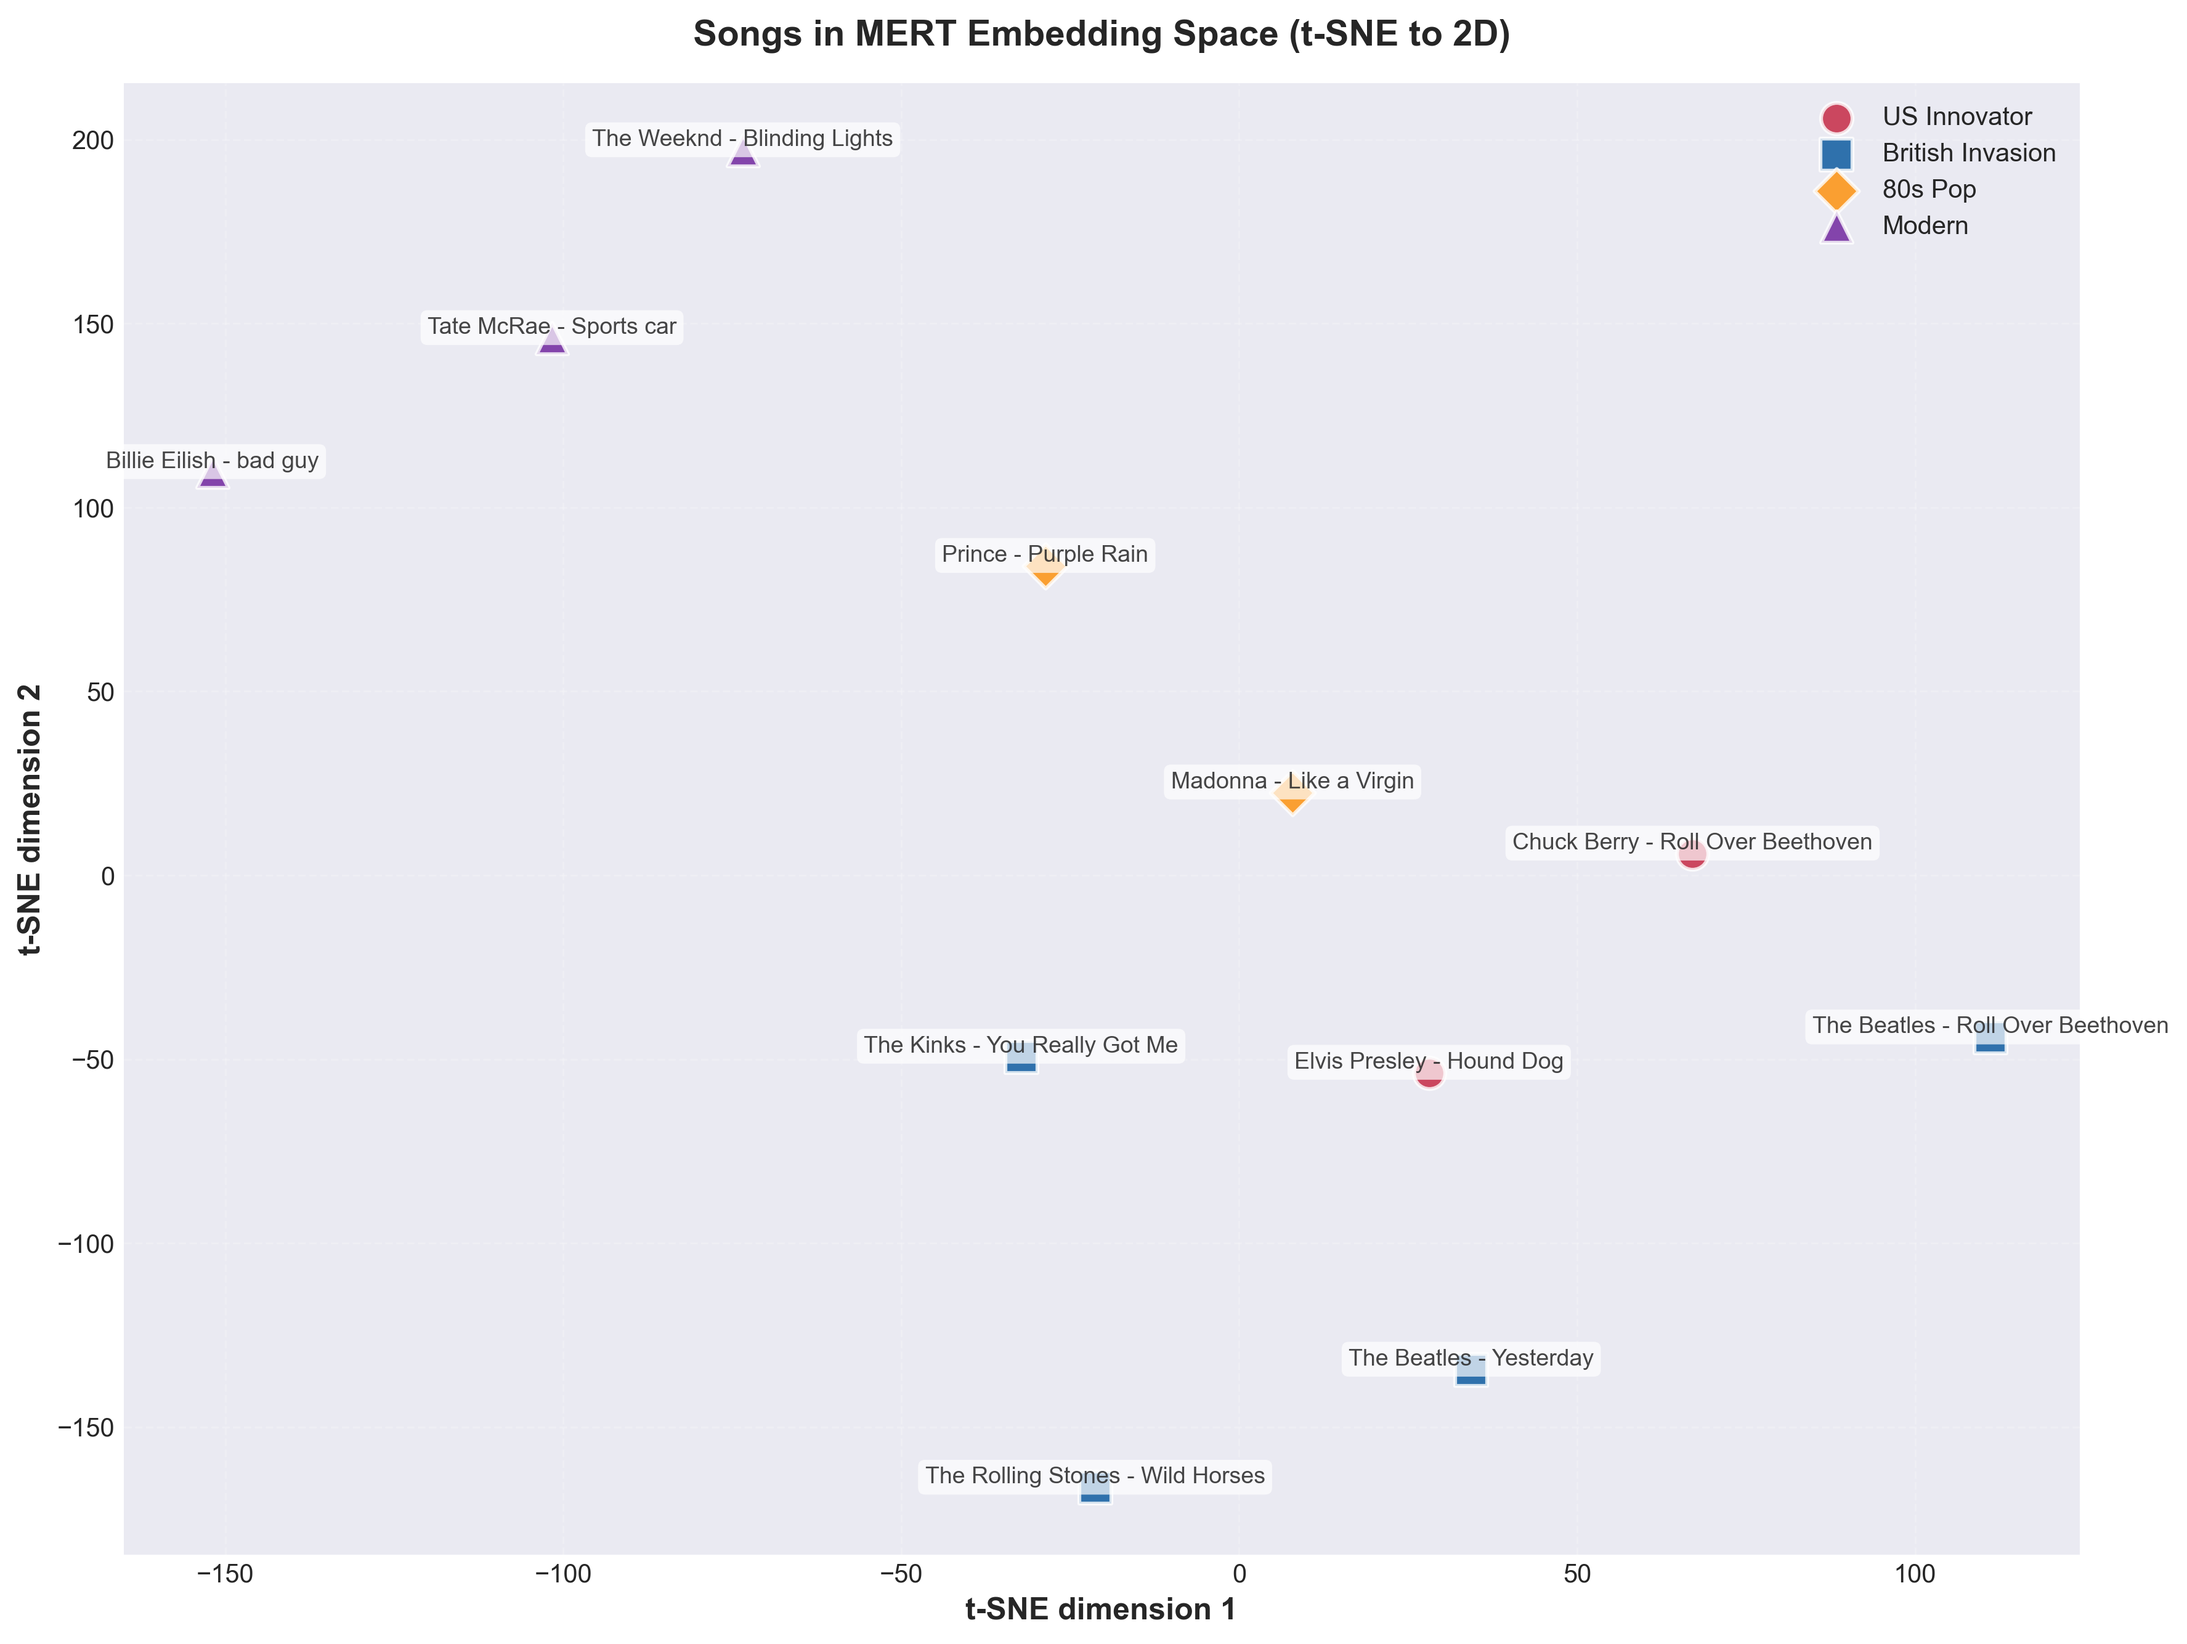
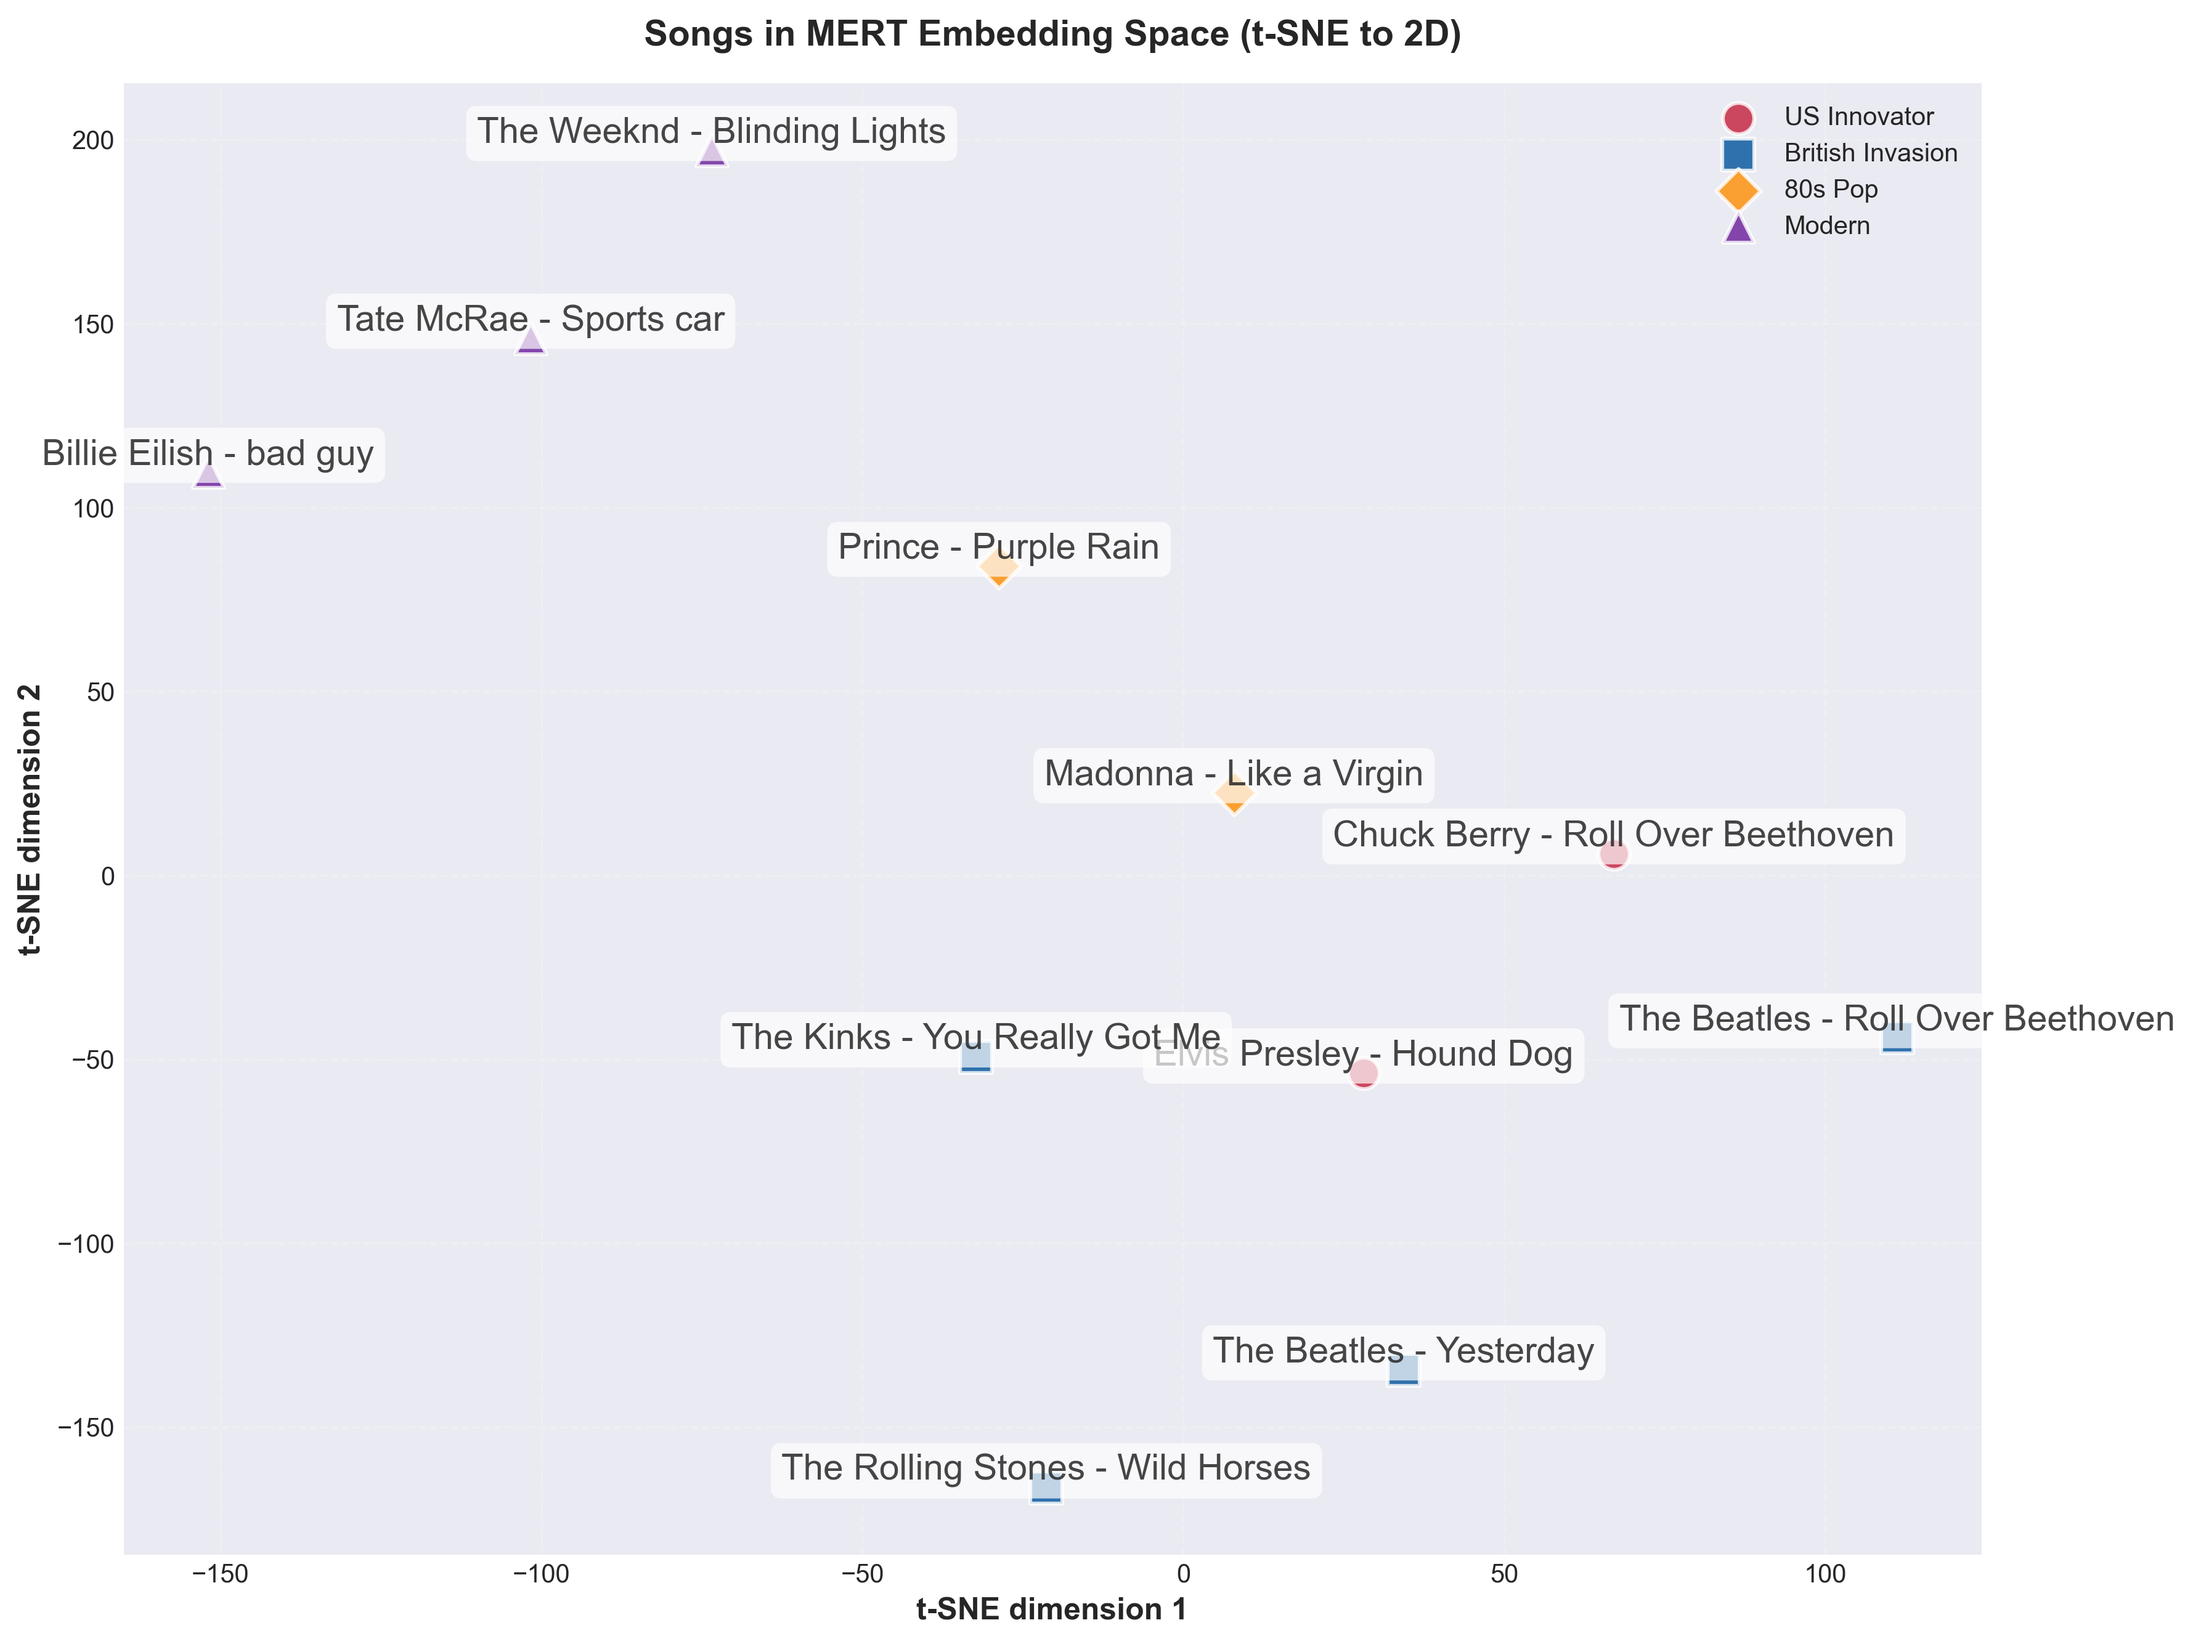
update plots + readme

diff --git a/audio/musical_diffusion_demo.py b/audio/musical_diffusion_demo.py
@@ -160,7 +160,7 @@ def plot_embeddings(df, x_col, y_col, title, xlabel, ylabel, filename):
     for _, row in df.iterrows():
         plt.annotate(f"{row['artist']} - {row['title']}", 
                     (row[x_col], row[y_col]),
-                    fontsize=9, alpha=0.85, 
+                    fontsize=14, alpha=0.85, 
                     bbox=dict(boxstyle='round,pad=0.3', facecolor='white', alpha=0.7, edgecolor='none'),
                     ha='center', va='bottom')
     

diff --git a/README.md b/README.md
@@ -2,3 +2,28 @@
 ![Python Version](https://img.shields.io/badge/python-3.11+-blue)
 
 # Guide
+
+## Audio Demo: Embedding Space Visualization
+
+This is a simple demo that visualizes songs in audio embedding space using MERT (Music Understanding Model). It demonstrates how AI models can learn representations of music that capture acoustic and stylistic similarities.
+
+The demo analyzes 11 songs spanning different eras and genres:
+
+- **US Innovators** (1950s): Chuck Berry, Elvis Presley
+- **British Invasion** (1960s-70s): The Beatles, The Kinks, Rolling Stones
+- **80s Pop**: Madonna, Prince
+- **Modern Pop** (2010s-2020s): Billie Eilish, Tate McRae, The Weeknd
+
+The visualization uses t-SNE and UMAP to project high-dimensional MERT embeddings into 2D space.
+
+### Running the Demo
+
+Songs are already in the `data/songs/` folder. To generate the visualizations:
+
+```bash
+uv run python audio/musical_diffusion_demo.py
+```
+
+This will create two PNG files in the `figures/` folder showing songs in 2D embedding space (t-SNE and UMAP projections).
+
+See `audio/README.md` for more details.
